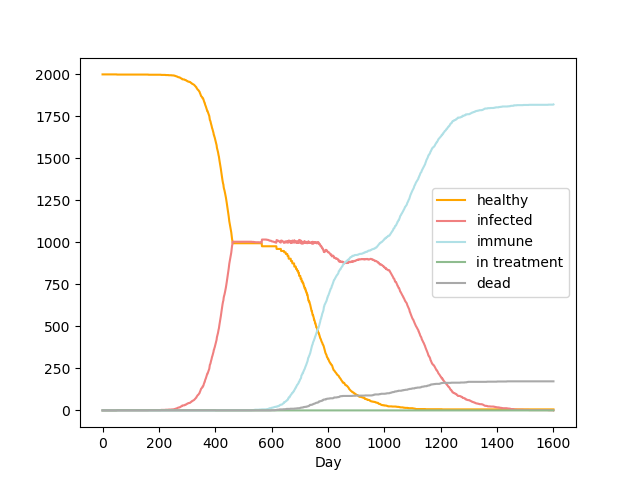
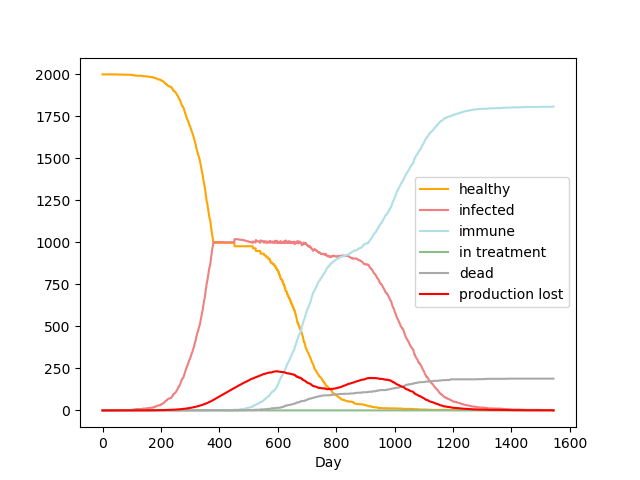
Simulation updates on economy factor

diff --git a/simulation/simulation.py b/simulation/simulation.py
@@ -63,7 +63,7 @@ def send_results(sim1, sim2):
     # Log structure: dayNumber, healthy, infected, immune, in treatment, dead
 
     # ---------- Plot a graph for the simulation without contact tracing ----------- #
-    TESTDATA = StringIO("""Day;healthy;infected;immune;in treatment;dead
+    TESTDATA = StringIO("""Day;healthy;infected;immune;in treatment;dead;production lost
         %s
         """ % sim1.log)
     df = pd.read_csv(TESTDATA, sep=";")
@@ -79,6 +79,7 @@ def send_results(sim1, sim2):
     df.plot(kind='line', x='Day', y='immune', color='powderblue', ax=ax)
     df.plot(kind='line', x='Day', y='in treatment', color='darkseagreen', ax=ax)
     df.plot(kind='line', x='Day', y='dead', color='darkgrey', ax=ax)
+    df.plot(kind='line', x='Day', y='production lost', color='red', ax=ax)
 
     plt.savefig('result/no-contact-tracing.png')  # simulation result
 
@@ -87,7 +88,7 @@ def send_results(sim1, sim2):
     plt.close()
 
     # ---------- Plot a graph for the simulation with contact tracing ----------- #
-    TESTDATA2 = StringIO("""Day;healthy;infected;immune;in treatment;dead
+    TESTDATA2 = StringIO("""Day;healthy;infected;immune;in treatment;dead;production lost
             %s
             """ % sim2.log)
     df2 = pd.read_csv(TESTDATA2, sep=";")
@@ -103,6 +104,7 @@ def send_results(sim1, sim2):
     df2.plot(kind='line', x='Day', y='immune', color='powderblue', ax=ax2)
     df2.plot(kind='line', x='Day', y='in treatment', color='darkseagreen', ax=ax2)
     df2.plot(kind='line', x='Day', y='dead', color='darkgrey', ax=ax2)
+    df2.plot(kind='line', x='Day', y='production lost', color='red', ax=ax)
 
     plt.savefig('result/contact-tracing.png')  # simulation result
 
@@ -244,8 +246,8 @@ class Simulation():
                                + str(self.pop_tracker.infectious[-1]) + ";"
                                + str(self.pop_tracker.recovered[-1]) + ";"
                                + str(len(self.population[self.population[:, 10] == 1])) + ";"
-                               + str(self.pop_tracker.fatalities[-1]) + "\n") + ";"\
-                   + str(self.pop_tracker.economy[-1])
+                               + str(self.pop_tracker.fatalities[-1]) + ";"
+                               + str(self.pop_tracker.economy[-1]) + "\n")
         # change the log content
         # save popdata if required
         if self.Config.save_pop and (self.frame % self.Config.save_pop_freq) == 0:
@@ -387,5 +389,5 @@ def pull_jobs():
 
 
 if __name__ == '__main__':
-    # run_locally()  ## test simulation locally
-    pull_jobs() ## start pulling jobs
+    run_locally()  ## test simulation locally
+    # pull_jobs() ## start pulling jobs

diff --git a/simulation/population.py b/simulation/population.py
@@ -232,8 +232,9 @@ class Population_trackers():
         self.fatalities.append(len(population[population[:,6] == 3]))
 
         production_time_lost = 0
-        production_time_lost += np.sum(frame - population[population[:, 10] == 1][:, 8])
+        production_time_lost += np.sum(frame - population[population[:, 6] == 1][:, 8])
         production_time_lost += np.sum(frame - population[population[:, 15] == 1][:, 16])
+        production_time_lost = production_time_lost/1000
         self.economy.append(production_time_lost)
 
         if self.reinfect:
